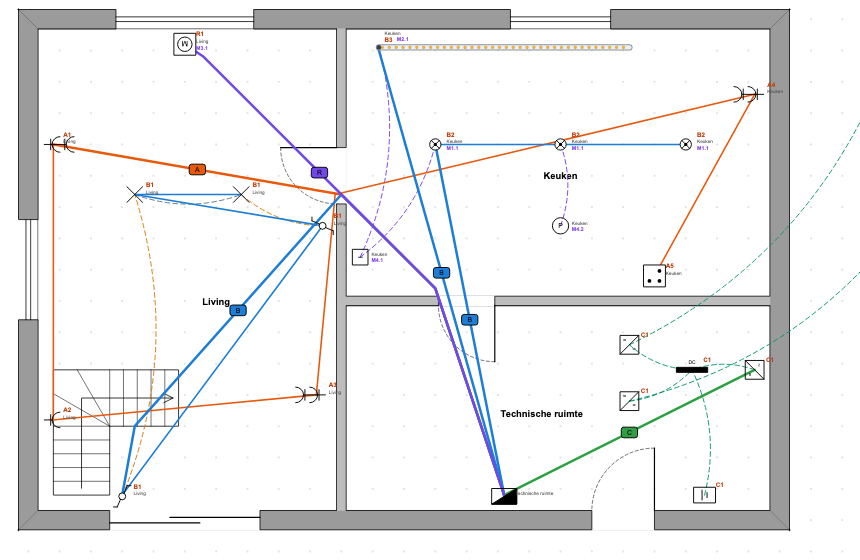
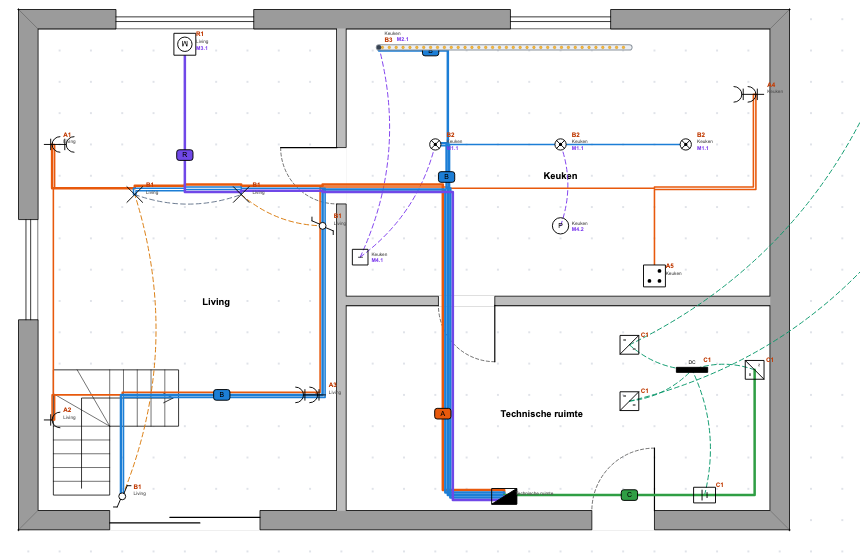
Cable routes with right angles, bundled side by side (0.66)
- A* on cell + direction with a cost per bend; cells 20–30 cm from walls and
  cells already used by a cable are cheaper, so cables follow walls and bundle.
- Shared pieces are drawn as parallel lanes (fixed order per bundle); labels
  spread out and avoid symbols.

diff --git a/src/building/traces.js b/src/building/traces.js
@@ -77,6 +77,7 @@ function raster(floor, extra) {
   const grid = new Uint8Array(R.W * R.H);
   for (const p of polys) fillPoly(grid, R, p, 1);
   R.grid = grid;
+  R.used = new Uint8Array(R.W * R.H);
   // outside: flood fill from the border; when that reaches everything the building is not closed
   const out = new Uint8Array(R.W * R.H);
   const stack = [];
@@ -106,6 +107,21 @@ function raster(floor, extra) {
     if (b <= a) continue;
     fillPoly(grid, R, [...wallPath(w, a, b, half, g), ...wallPath(w, b, a, -half, g)], 0, 1); // wall cells only, not outside
   }
+  // free cells 20–30 cm from a wall: cables like to run there (not right against it, so a bundle fits)
+  R.nearWall = new Uint8Array(R.W * R.H);
+  const tooClose = new Uint8Array(R.W * R.H);
+  const ring = (reach, arr) => {
+    for (let j = 0; j < R.H; j++) for (let i = 0; i < R.W; i++) {
+      if (grid[j * R.W + i] !== 1) continue;
+      for (let dj = -reach; dj <= reach; dj++) for (let di = -reach; di <= reach; di++) {
+        const ni = i + di, nj = j + dj;
+        if (ni >= 0 && nj >= 0 && ni < R.W && nj < R.H) arr[nj * R.W + ni] = 1;
+      }
+    }
+  };
+  ring(3, R.nearWall);
+  ring(1, tooClose);
+  for (let c = 0; c < grid.length; c++) if (tooClose[c]) R.nearWall[c] = 0;
   return R;
 }
 
@@ -135,21 +151,23 @@ function snap(R, x, y) {
   return best;
 }
 
-/** A* over the raster (8 directions, no corner cutting); returns cell indices or null. */
+/**
+ * A* over the raster with right angles only. The state is cell + direction, so every bend costs extra;
+ * cells along walls and cells that already carry a cable are cheaper, so cables follow the walls and
+ * bundle. Returns the cell indices or null.
+ */
 function astar(R, from, to) {
-  const { W, H, grid } = R;
-  const g = new Float64Array(W * H).fill(Infinity);
-  const prev = new Int32Array(W * H).fill(-1);
-  const closed = new Uint8Array(W * H);
+  const { W, H, grid, nearWall, used } = R;
+  const N = W * H * 4;
+  const g = new Float64Array(N).fill(Infinity);
+  const prev = new Int32Array(N).fill(-1);
+  const closed = new Uint8Array(N);
   const ti = to % W, tj = Math.floor(to / W);
-  const hcost = (c) => {
-    const dx = Math.abs((c % W) - ti), dy = Math.abs(Math.floor(c / W) - tj);
-    return Math.max(dx, dy) + (Math.SQRT2 - 1) * Math.min(dx, dy);
-  };
-  // binary heap of [f, cell]
+  const MIN = 0.4; // cheapest step (bundle along a wall)
+  const hcost = (c) => (Math.abs((c % W) - ti) + Math.abs(Math.floor(c / W) - tj)) * MIN;
   const heap = [];
-  const pushH = (f, c) => {
-    heap.push([f, c]);
+  const pushH = (f, st) => {
+    heap.push([f, st]);
     let i = heap.length - 1;
     while (i > 0) { const p = (i - 1) >> 1; if (heap[p][0] <= heap[i][0]) break; [heap[p], heap[i]] = [heap[i], heap[p]]; i = p; }
   };
@@ -169,62 +187,113 @@ function astar(R, from, to) {
     }
     return top;
   };
-  g[from] = 0;
-  pushH(hcost(from), from);
-  const DIRS = [[1, 0, 1], [-1, 0, 1], [0, 1, 1], [0, -1, 1], [1, 1, Math.SQRT2], [1, -1, Math.SQRT2], [-1, 1, Math.SQRT2], [-1, -1, Math.SQRT2]];
+  if (from === to) return [from];
+  for (let d = 0; d < 4; d++) { g[from * 4 + d] = 0; pushH(hcost(from), from * 4 + d); }
+  const DI = [1, -1, 0, 0], DJ = [0, 0, 1, -1];
+  const TURN = 3;
+  let end = -1;
   while (heap.length) {
-    const [, c] = popH();
-    if (closed[c]) continue;
-    if (c === to) break;
-    closed[c] = 1;
-    const i = c % W, j = Math.floor(c / W);
-    for (const [di, dj, cost] of DIRS) {
-      const ni = i + di, nj = j + dj;
+    const [, st] = popH();
+    if (closed[st]) continue;
+    closed[st] = 1;
+    const c = st >> 2, d = st & 3;
+    if (c === to) { end = st; break; }
+    const i = c % W, j = (c - i) / W;
+    for (let nd = 0; nd < 4; nd++) {
+      if ((nd ^ 1) === d) continue; // no turning back
+      const ni = i + DI[nd], nj = j + DJ[nd];
       if (ni < 0 || nj < 0 || ni >= W || nj >= H) continue;
       const n = nj * W + ni;
-      if (grid[n] || closed[n]) continue;
-      if (di && dj && (grid[j * W + ni] || grid[nj * W + i])) continue; // no corner cutting
-      const ng = g[c] + cost;
-      if (ng < g[n]) { g[n] = ng; prev[n] = c; pushH(ng + hcost(n), n); }
+      if (grid[n]) continue;
+      const ns = n * 4 + nd;
+      if (closed[ns]) continue;
+      const step = (nearWall[n] ? 0.8 : 1) * (used[n] ? 0.5 : 1) + (nd === d ? 0 : TURN);
+      const ng = g[st] + step;
+      if (ng < g[ns]) { g[ns] = ng; prev[ns] = st; pushH(ng + hcost(n), ns); }
     }
   }
-  if (from !== to && prev[to] < 0) return null;
-  const path = [to];
-  while (path[path.length - 1] !== from) path.push(prev[path[path.length - 1]]);
+  if (end < 0) return null;
+  const path = [];
+  for (let st = end; st >= 0; st = prev[st]) { path.push(st >> 2); if (g[st] === 0) break; }
   return path.reverse();
 }
 
-/** True when the straight line between two points only crosses free cells. */
-function clear(R, [ax, ay], [bx, by]) {
-  const n = Math.ceil(Math.hypot(bx - ax, by - ay) / (CELL / 3));
-  for (let k = 1; k < n; k++) {
-    const x = ax + ((bx - ax) * k) / n, y = ay + ((by - ay) * k) / n;
-    const i = Math.floor((x - R.x0) / CELL), j = Math.floor((y - R.y0) / CELL);
-    if (i < 0 || j < 0 || i >= R.W || j >= R.H || R.grid[j * R.W + i]) return false;
-  }
-  return true;
-}
-
-/** Route between two plan points on one floor: [[x, y] …] or null. */
+/** Route between two plan points on one floor: {cells, a, b} or null. Marks its cells as used. */
 function route(R, a, b) {
   const ca = snap(R, a[0], a[1]), cb = snap(R, b[0], b[1]);
   if (ca < 0 || cb < 0) return null;
   const cells = astar(R, ca, cb);
   if (!cells) return null;
-  const pts = cells.map((c) => centre(R, c));
-  // string pulling: keep only the corners that are needed
-  const out = [pts[0]];
-  let i = 0;
-  while (i < pts.length - 1) {
-    let j = pts.length - 1;
-    while (j > i + 1 && !clear(R, pts[i], pts[j])) j--;
-    out.push(pts[j]);
-    i = j;
-  }
-  return [a, ...out, b];
+  for (const c of cells) R.used[c] = 1;
+  return { cells, a, b };
 }
 
-const plen = (pts) => pts.reduce((s, p, i) => (i ? s + Math.hypot(p[0] - pts[i - 1][0], p[1] - pts[i - 1][1]) : 0), 0);
+
+/** Right-angled connection from a symbol to the first / last point of its route. */
+function elbow(from, to, arriveVertical) {
+  if (Math.abs(from[0] - to[0]) < 0.5 || Math.abs(from[1] - to[1]) < 0.5) return [from];
+  return [from, arriveVertical ? [to[0], from[1]] : [from[0], to[1]]];
+}
+
+const SPACING = 4; // cm between bundled cables
+
+/**
+ * Turns the routes of one floor into drawn polylines: cables that share a piece of the raster lie
+ * side by side (a fixed order per bundle), with small steps where a bundle changes.
+ */
+function bundle(R, routes) {
+  const edges = new Map();
+  const ek = (c1, c2) => (c1 < c2 ? c1 * 2 + (c2 - c1 === 1 ? 0 : 1) : c2 * 2 + (c1 - c2 === 1 ? 0 : 1));
+  routes.forEach((rt, idx) => {
+    for (let k = 0; k + 1 < rt.cells.length; k++) {
+      const key = ek(rt.cells[k], rt.cells[k + 1]);
+      if (!edges.has(key)) edges.set(key, []);
+      const list = edges.get(key);
+      if (!list.includes(idx)) list.push(idx);
+    }
+  });
+  return routes.map((rt, idx) => {
+    const { cells, a, b } = rt;
+    const P = cells.map((c) => centre(R, c));
+    if (cells.length < 2) {
+      const m = P[0];
+      return [...elbow(a, m, false), m, ...elbow(b, m, true).reverse()];
+    }
+    const dir = [], off = [];
+    for (let k = 0; k + 1 < cells.length; k++) {
+      const horizontal = Math.abs(cells[k + 1] - cells[k]) === 1;
+      const list = edges.get(ek(cells[k], cells[k + 1]));
+      dir.push(horizontal ? 'h' : 'v');
+      off.push((list.indexOf(idx) - (list.length - 1) / 2) * SPACING);
+    }
+    // offset of a point: horizontal pieces shift in y, vertical pieces in x
+    const shift = (p, d, o) => (d === 'h' ? [p[0], p[1] + o] : [p[0] + o, p[1]]);
+    const out = [shift(P[0], dir[0], off[0])];
+    for (let k = 1; k + 1 < P.length; k++) {
+      const d1 = dir[k - 1], d2 = dir[k], o1 = off[k - 1], o2 = off[k];
+      if (d1 === d2) {
+        if (o1 !== o2) { out.push(shift(P[k], d1, o1), shift(P[k], d2, o2)); }
+      } else {
+        out.push(d1 === 'h' ? [P[k][0] + o2, P[k][1] + o1] : [P[k][0] + o1, P[k][1] + o2]);
+      }
+    }
+    out.push(shift(P.at(-1), dir.at(-1), off.at(-1)));
+    const first = out[0], last = out.at(-1);
+    const pts = [...elbow(a, first, dir[0] === 'h'), ...out, ...elbow(b, last, dir.at(-1) === 'h').reverse()];
+    // drop points on a straight line
+    return pts.filter((p, i) => {
+      if (i === 0 || i === pts.length - 1) return true;
+      const q = pts[i - 1], r = pts[i + 1];
+      return Math.abs((p[0] - q[0]) * (r[1] - q[1]) - (p[1] - q[1]) * (r[0] - q[0])) > 0.01;
+    });
+  });
+}
+
+/** Length of a route along the raster (without the bundle offsets). */
+const routeLen = (R, rt) => {
+  const P = rt.cells.map((c) => centre(R, c));
+  return Math.abs(rt.a[0] - P[0][0]) + Math.abs(rt.a[1] - P[0][1]) + (rt.cells.length - 1) * CELL + Math.abs(rt.b[0] - P.at(-1)[0]) + Math.abs(rt.b[1] - P.at(-1)[1]);
+};
 
 // ---------- generation ----------
 
@@ -271,7 +340,8 @@ export function generateTraces(b, lib) {
   const floors = {};
   const rows = [];
   const warnings = [];
-  const add = (f, c, pts, home) => (floors[f.id] ||= []).push({ c, pts: pts.map(([x, y]) => [Math.round(x), Math.round(y)]), home });
+  const routed = new Map(); // floorId → [{c, home, cells, a, b}]
+  const add = (f, c, rt, home) => { if (!routed.has(f.id)) routed.set(f.id, []); routed.get(f.id).push({ ...rt, c, home }); };
 
   for (const c of b.circuits) {
     // DC side of a PV installation (panels, MPPT, busbar, battery) is not on the AC circuit cable
@@ -295,16 +365,16 @@ export function generateTraces(b, lib) {
       const pa = [A.s.x, A.s.y], pb = [B.s.x, B.s.y];
       if (fa === fb) {
         const R = rasterOf(A.floor);
-        const pts = R && route(R, pa, pb);
-        if (pts) { horiz += plen(pts); add(A.floor, c.id, pts, home); } else { failed++; horiz += Math.hypot(pb[0] - pa[0], pb[1] - pa[1]); }
+        const rt = R && route(R, pa, pb);
+        if (rt) { horiz += routeLen(R, rt); add(A.floor, c.id, rt, home); } else { failed++; horiz += Math.abs(pb[0] - pa[0]) + Math.abs(pb[1] - pa[1]); }
         vert += drop(H(A), H(B)) + 2 * cfg.box;
         return;
       }
       const riser = bs ? [bs.s.x, bs.s.y] : pa;
       const Ra = rasterOf(A.floor), Rb = rasterOf(B.floor);
       const p1 = Ra && route(Ra, pa, riser), p2 = Rb && route(Rb, riser, pb);
-      if (p1) { horiz += plen(p1); add(A.floor, c.id, p1, home); } else failed++;
-      if (p2) { horiz += plen(p2); add(B.floor, c.id, p2, home); } else failed++;
+      if (p1) { horiz += routeLen(Ra, p1); add(A.floor, c.id, p1, home); } else failed++;
+      if (p2) { horiz += routeLen(Rb, p2); add(B.floor, c.id, p2, home); } else failed++;
       // riser: from A's height to B's height over the floors in between
       vert += Math.abs(fb - fa) * cfg.storey + Math.abs(H(B) - H(A)) + 2 * cfg.box;
     };
@@ -320,6 +390,12 @@ export function generateTraces(b, lib) {
     if (failed) warnings.push(t('Kring {c}: {n} stuk(ken) zonder doorgang (deur / opening) – rechte lijn gerekend.', { c: c.name, n: failed }));
     const total = Math.ceil(((horiz + vert) / 100) * (1 + cfg.reserve / 100));
     rows.push({ circuit: c.id, name: c.name, desc: c.desc || '', cable: cableText(c), points: syms.length, horiz: horiz / 100, vert: vert / 100, total });
+  }
+  // draw: bundled, right-angled polylines per floor
+  for (const [fid, list] of routed) {
+    const R = rasters.get(fid);
+    const lines = bundle(R, list);
+    floors[fid] = list.map((rt, i) => ({ c: rt.c, home: rt.home, pts: lines[i].map(([x, y]) => [Math.round(x * 10) / 10, Math.round(y * 10) / 10]) }));
   }
   const closedFloors = b.floors.filter((f) => rasters.has(f.id) && rasters.get(f.id) && !rasters.get(f.id).closed);
   for (const f of closedFloors) warnings.push(t('{f}: de buitenmuren zijn niet gesloten – kabels kunnen buitenom lopen.', { f: f.name }));

diff --git a/src/building/render.js b/src/building/render.js
@@ -464,18 +464,29 @@ function traceSvg(b, floor, k, sw) {
     const col = traceColor(b, tr.c);
     s += `<polyline class="ptrace" points="${pts(tr.pts)}" style="stroke:${col};stroke-width:${sw * (tr.home ? 3.2 : 2)}"/>`;
   }
+  // circuit name on every run from the board: on a long piece, away from the labels already placed
+  const placed = [];
+  const syms = floor.symbols.map((x) => [x.x, x.y]);
   for (const tr of list) {
     if (!tr.home || tr.pts.length < 2) continue;
-    // label on the middle of the longest segment
-    let best = 0, bi = 1;
+    let best = null;
     for (let i = 1; i < tr.pts.length; i++) {
-      const d = Math.hypot(tr.pts[i][0] - tr.pts[i - 1][0], tr.pts[i][1] - tr.pts[i - 1][1]);
-      if (d > best) { best = d; bi = i; }
+      const [ax, ay] = tr.pts[i - 1], [bx, by] = tr.pts[i];
+      const len = Math.hypot(bx - ax, by - ay);
+      if (len < 20) continue;
+      for (const f of [0.25, 0.5, 0.75]) {
+        const x = ax + (bx - ax) * f, y = ay + (by - ay) * f;
+        const free = Math.min(300, ...placed.map(([px, py]) => Math.hypot(px - x, py - y)));
+        const clearSym = Math.min(60, ...syms.map(([px, py]) => Math.hypot(px - x, py - y)));
+        const score = free * 2 + Math.min(len, 300) * 0.3 + clearSym * 4;
+        if (!best || score > best.score) best = { score, x, y };
+      }
     }
-    const [x, y] = [(tr.pts[bi][0] + tr.pts[bi - 1][0]) / 2, (tr.pts[bi][1] + tr.pts[bi - 1][1]) / 2];
+    if (!best) continue;
+    placed.push([best.x, best.y]);
     const name = names.get(tr.c) || '';
     const w = Math.max(5.2, name.length * 1.5 + 2);
-    s += `<g transform="translate(${r2(x)} ${r2(y)}) scale(${1 / k})"><rect x="${r2(-w / 2)}" y="-1.7" width="${r2(w)}" height="3.4" rx="0.8" style="fill:${traceColor(b, tr.c)}"/>${textSvg(0, 0, name, 2.2, 'middle', 'tx ptracetx', ' style="dominant-baseline:central"')}</g>`;
+    s += `<g transform="translate(${r2(best.x)} ${r2(best.y)}) scale(${1 / k})"><rect x="${r2(-w / 2)}" y="-1.7" width="${r2(w)}" height="3.4" rx="0.8" style="fill:${traceColor(b, tr.c)}"/>${textSvg(0, 0, name, 2.2, 'middle', 'tx ptracetx', ' style="dominant-baseline:central"')}</g>`;
   }
   return s + '</g>';
 }

diff --git a/sw.js b/sw.js
@@ -1,7 +1,7 @@
 // Service worker: makes Kringo installable and usable offline.
 // Strategy: network first (always the newest version when online), cache as fallback.
 // Bump VERSION for every release (0.61 → 0.62 …), equal to APP_VERSION in src/version.js; add new source files to SHELL.
-const VERSION = 'kringo-0.65';
+const VERSION = 'kringo-0.66';
 const SHELL = [
   './', 'index.html', 'styles.css', 'manifest.webmanifest',
   'icons/icon.svg', 'icons/icon-192.png', 'icons/icon-512.png', 'icons/maskable-512.png', 'icons/apple-touch-icon.png',

diff --git a/src/version.js b/src/version.js
@@ -3,9 +3,9 @@ import { t } from './i18n.js';
 import { h } from './util.js';
 import { modal } from './ui/dialogs.js';
 
-export const APP_VERSION = '0.65';
+export const APP_VERSION = '0.66';
 
-/** Compares versions like '0.65' and '0.102' part by part. */
+/** Compares versions like '0.66' and '0.102' part by part. */
 const newer = (a, b) => {
   const x = a.split('.').map(Number), y = b.split('.').map(Number);
   for (let i = 0; i < Math.max(x.length, y.length); i++) if ((x[i] || 0) !== (y[i] || 0)) return (x[i] || 0) > (y[i] || 0);

diff --git a/docs/HANDLEIDING.md b/docs/HANDLEIDING.md
@@ -264,7 +264,7 @@ Het AREI (Boek 1, 2.10) vraagt de **uitwendige invloeden** per ruimte: omgevings
 
 1. Zet een **Verdeelbord** (Energie) op het grondplan. Met meerdere borden kies je in de eigenschappen van het symbool welk bord het is.
 2. Klik bovenaan op **Kabels** en dan op **Kabeltrace genereren**. Per kring loopt een route van het verdeelbord naar het eerste punt en daarna van punt naar punt, in de volgorde van de nummers (bij hetzelfde nummer eerst de schakelaar, dan de lampen). Elk domotica-uitgangskanaal krijgt een eigen kabel vanaf het bord. De DC-kant van zonnepanelen telt niet mee.
-3. De kabels gaan enkel door **deuren, deuropeningen, schuifdeuren en garagepoorten** – niet door muren of ramen, en niet buiten het gebouw om. Elke kring krijgt een kleur; de kabel vanaf het bord is dikker en draagt de naam van de kring. Met het vinkje **kabels** in de werkbalk zet je de overlay aan of uit.
+3. De kabels gaan enkel door **deuren, deuropeningen, schuifdeuren en garagepoorten** – niet door muren of ramen, en niet buiten het gebouw om. De kabels lopen met rechte hoeken, liefst op 20–30 cm van de muren, en waar ze dezelfde weg nemen liggen ze mooi gebundeld naast elkaar. Elke kring krijgt een kleur; de kabel vanaf het bord is dikker en draagt de naam van de kring. Met het vinkje **kabels** in de werkbalk zet je de overlay aan of uit.
 
    ![Kabeltrace op het grondplan](img/cables-plan.png)
 
@@ -273,7 +273,7 @@ Het AREI (Boek 1, 2.10) vraagt de **uitwendige invloeden** per ruimte: omgevings
 
    ![Kabellengtes per type en per kring](img/cables.png)
 
-> Het is een schatting: de routes lopen in rechte lijnen door de ruimtes. Wijzig je het plan of de kringen, dan meldt Kringo dat je opnieuw moet genereren.
+> Het is een schatting: de routes volgen een raster van 10 cm door de ruimtes. Wijzig je het plan of de kringen, dan meldt Kringo dat je opnieuw moet genereren.
 
 ## 7. Stuurkast
 
